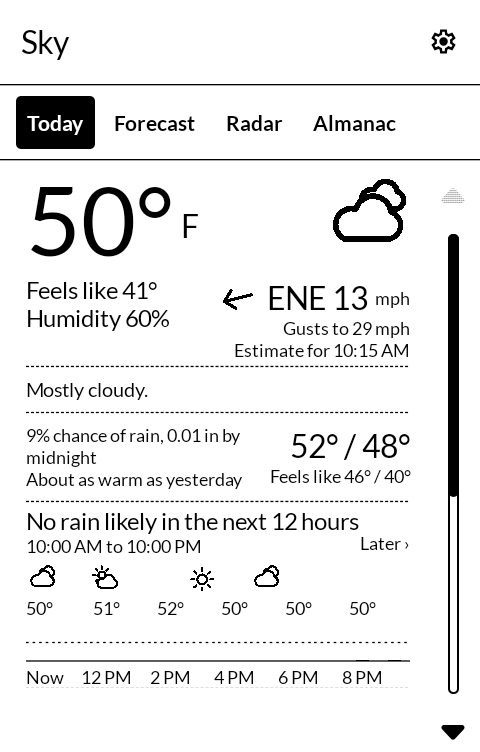
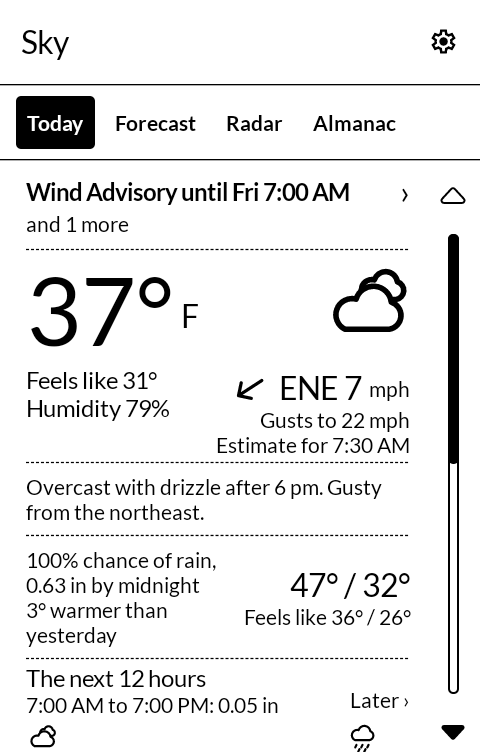
README: screenshots of v0.13.20, with fake data

diff --git a/README.md b/README.md
@@ -13,8 +13,8 @@ the station and the forecast are added here.
 
 | | |
 |---|---|
-| ![Today: the day in words, the next two hours' rain, now and today](screenshots/1-today.png) | ![Almanac: the moon tonight, its rise and set, and the sun's dawn and dusk](screenshots/2-almanac.png) |
-| ![A month of moons, on the almanac's second page](screenshots/3-moons.png) | ![About: privacy, terms and licenses, a page at a time](screenshots/4-about.png) |
+| ![Today: now, the next hours, an alert on top](screenshots/1-today.png) | ![The forecast, day by day](screenshots/2-forecast.png) |
+| ![The radar](screenshots/3-radar.png) | ![An alert in full](screenshots/4-alert.png) |
 
 ## What it shows
 
